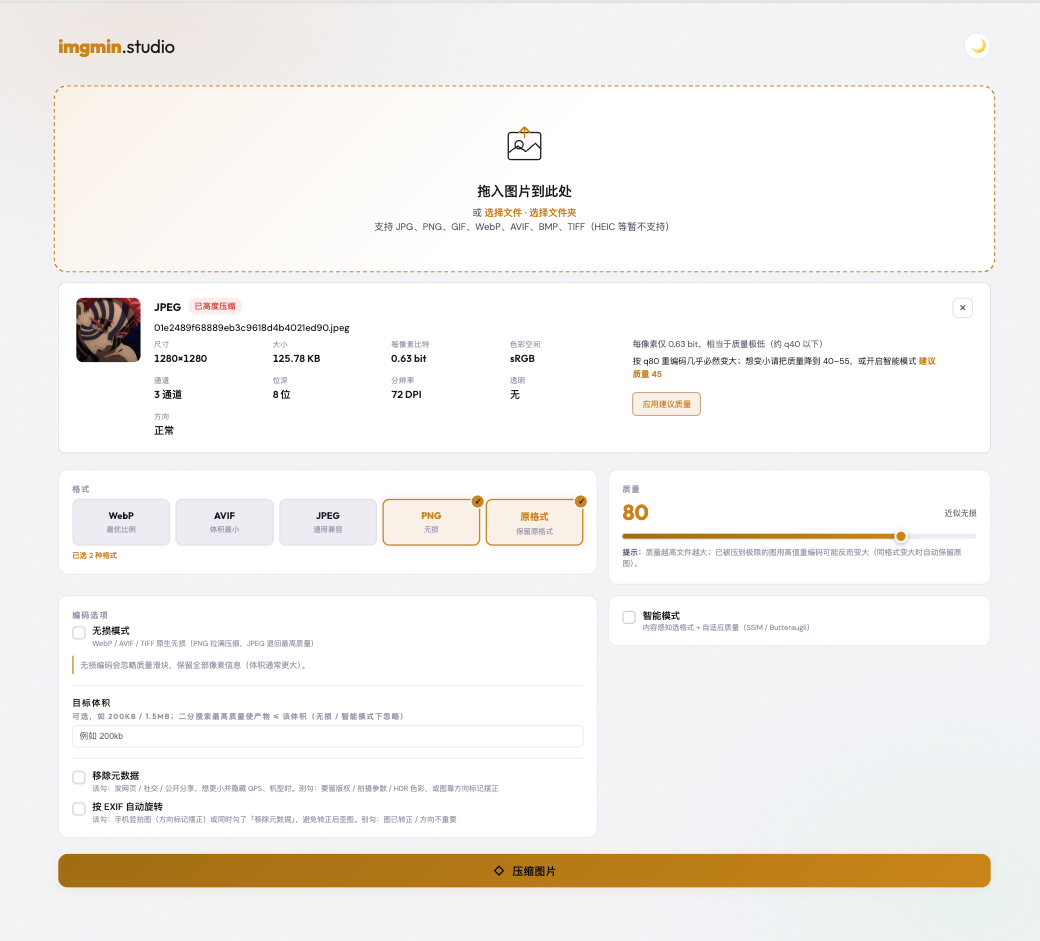
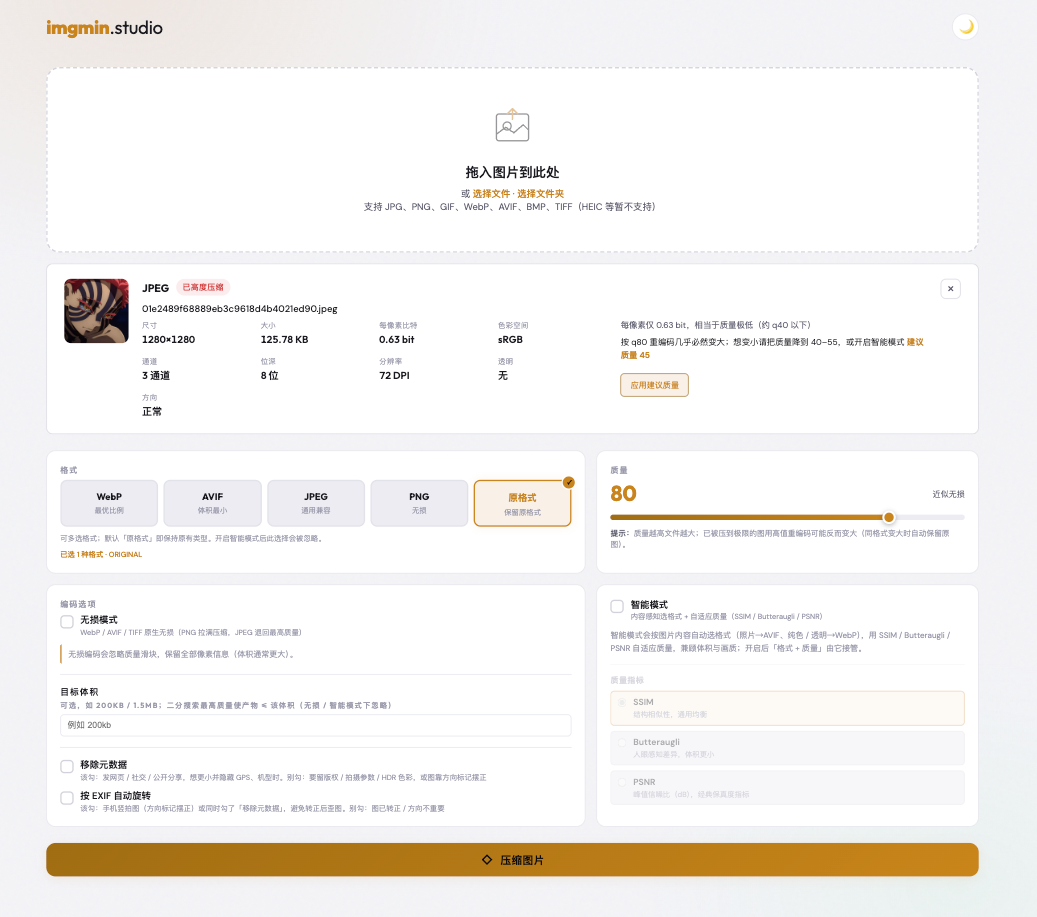
docs: 同步 PSNR 指标文档 + 更新 Web UI 截图
- PRD.md: §7.1 UI 描述由「指标下拉」改为「指标竖向单选」；变更日志
  追加 2026-09-15 新增 PSNR 指标 + 竖向单选 UI 条目，含引擎/测试/UI/契约同步说明。
- screenshots/shot.png: 更新交互截图以反映质量指标竖向单选新 UI。

diff --git a/PRD.md b/PRD.md
@@ -206,7 +206,7 @@ bin/cli.js ──▶ src/index.js (CLI 编排)
 
 ### 7.1 页面结构
 - 拖放区（支持点击选文件 / 选文件夹；递归遍历文件夹用 `webkitGetAsEntry`）。
-- 设置面板：格式多选（WebP / AVIF / JPEG / PNG / 原格式）、质量滑块、智能模式开关（含指标下拉 SSIM/Butteraugli/PSNR）。
+- 设置面板：格式多选（WebP / AVIF / JPEG / PNG / 原格式）、质量滑块、智能模式开关（含指标竖向单选 SSIM/Butteraugli/PSNR，智能未勾选时整组置灰禁用）。
 - 压缩按钮 + 进度条。
 - 结果区：统计摘要卡（图片×格式 / 输出数 / 总节省%）+ 每张原图的结果卡片（含各格式 chip、智能理由）。
 - 主题切换（深色 / 浅色，localStorage 记忆）。
@@ -425,3 +425,10 @@ bin/cli.js ──▶ src/index.js (CLI 编排)
 - 决策：原生 Butteraugli（真值）在 Node CLI 下无可用依赖——`@squoosh-kit/visdif` 经 `fetch(file://)` 加载 WASM 且其 dist 缺失 Emscripten glue，无法实例化；`butteraugli`@0.0.2（2017 原生 addon）需 node-gyp 构建、年久失修，风险高。用户选定**不引入原生依赖**，改为升级现有近似算法为更接近真值的实现。
 - 方案（§6.2 / §11.2 同步更新）：`src/smart.js` 的 `computeButteraugli` 由「Rec.709 亮度加权逐像素色差」升级为 sRGB→CIELAB 正确转换 + 多尺度（1x/0.5x/0.25x）误差 + 暗部敏感权重 + 对比度掩蔽 + Minkowski(p≈0.6) 空间池化（兼顾最差区域），输出标定到 ~Butteraugli 量纲（0=相同、≤1.2 达标）。阈值、指标名、CLI/UI 契约均不变。
 - 进度（已完成）：`src/smart.js` 已升级 `computeButteraugli` 为 CIELAB 多尺度加权实现（含 `toLabPlanes` / `butteraugliDistance`，已导出便于测试），原图 Lab 平面只解码一次复用；`tests/smart.test.js` 新增行为用例（相同图≈0、低质量距离>高质量、量纲合理），`node --test tests/smart.test.js` 6/6 通过；CLI 冒烟验证：平滑图 q82 距离 0.34（选低质量省 99.5%）、噪声图始终>1.2（保持高质），符合感知模型。阈值 / 指标名 / CLI·UI 契约均不变。
+
+### 2026-09-15 · 新增 PSNR 质量指标 + 质量指标竖向单选 UI
+- 背景：智能模式自适应质量已有 SSIM（结构类）/ Butteraugli（感知类）两类指标，缺「误差 / 保真度类」标准参照系（PSNR dB 数），用户认可仅补 PSNR（MSE/DSSIM 冗余、VMAF/SSIMULACRA2 需训练模型违反离线零依赖约束）。
+- 引擎（`src/smart.js`）：新增 `computePSNR`（基于 RGB 通道 MSE，封顶 100dB 防 Infinity）；`findOptimalQuality` 增加 `psnr` 分支，阈值默认 `≥38dB`；用 `higherBetter` 统一 SSIM/PSNR（越大越好）与 Butteraugli（越小越好）的判定，CLI/UI 契约不变。
+- 测试（`tests/smart.test.js`）：新增 `findOptimalQuality({metric:'psnr'})` 与 `computePSNR` 行为用例（相同图≈100dB、高质量>低质量），`node --test tests/smart.test.js` 8/8 通过。
+- UI（`src/ui-public/index.html`）：质量指标由下拉框改为直接展示的**竖向单选**（SSIM / Butteraugli / PSNR，每行左单选框右名称 + 小字解释），智能模式未勾选时整组置灰禁用、勾选后可点；移除原公共说明块与废弃样式。
+- 文档（§6.2 / AGENTS.md §1.5·§2.5·§5.1 同步）：补 PSNR 指标说明与阈值 `≥38dB`，API 契约 `metric` 枚举扩为 `ssim | butteraugli | psnr`。零新依赖，离线可用。
